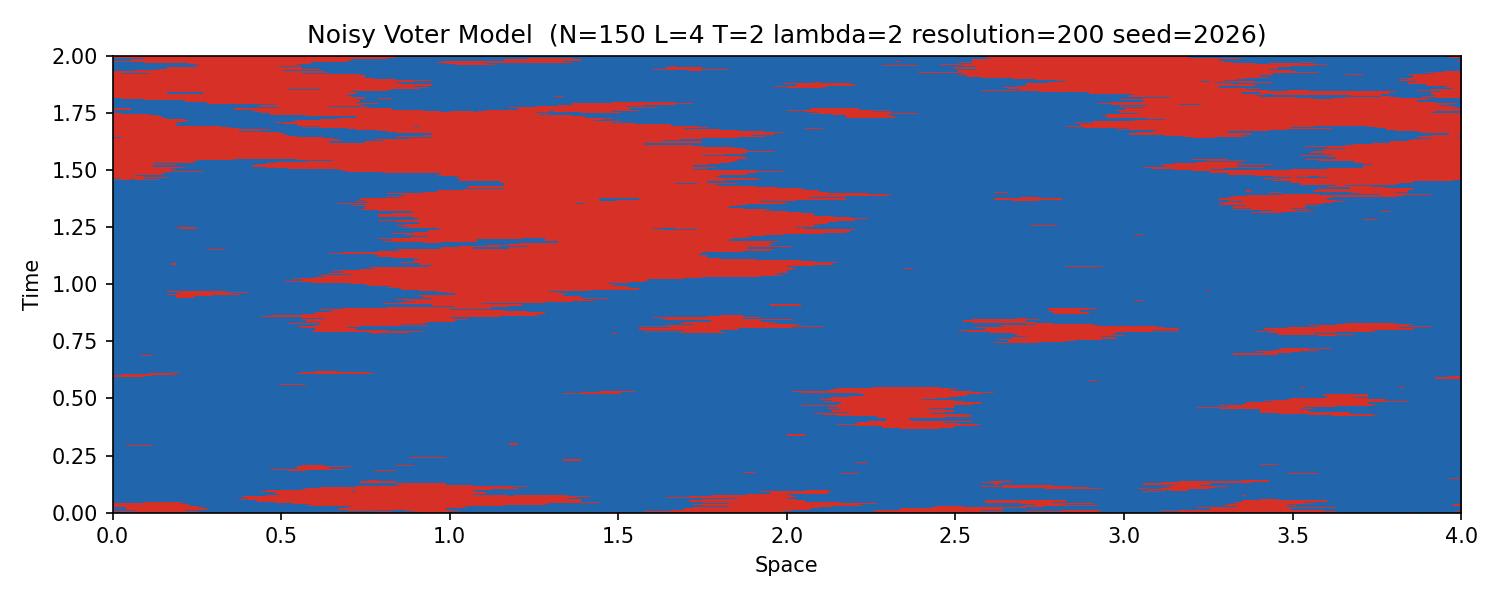
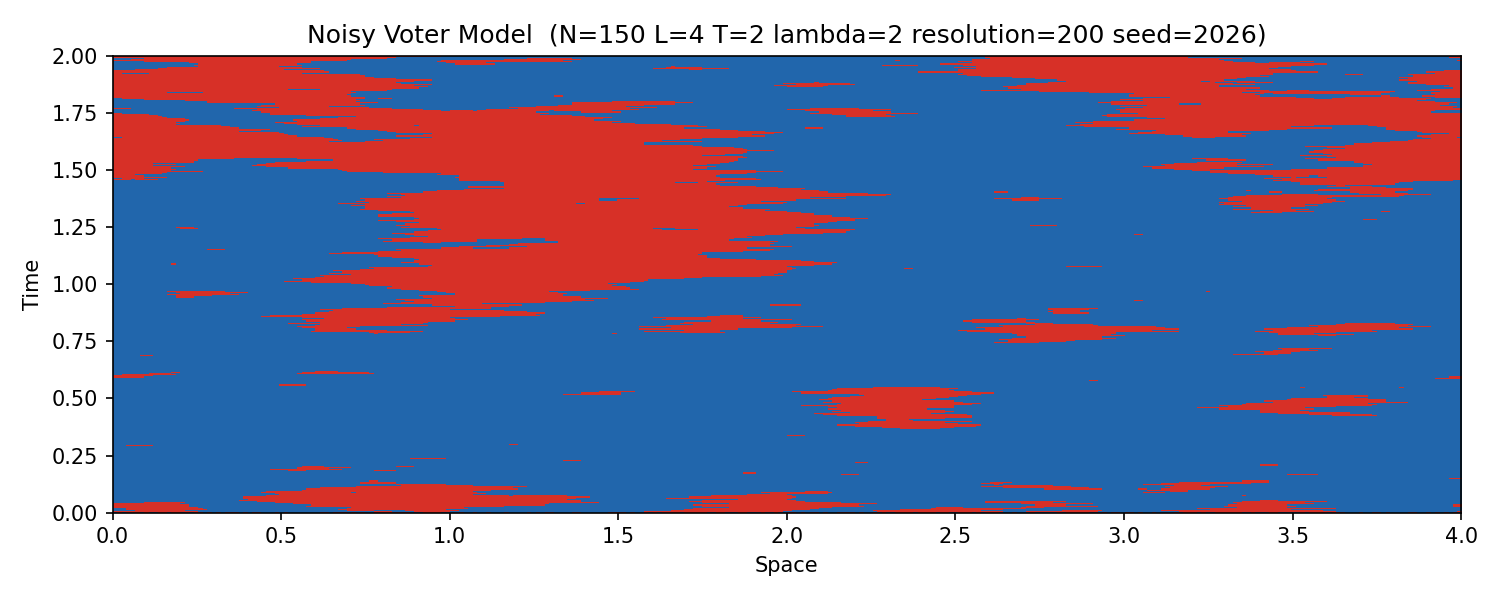
plot.py: a row is drawn at its time
The rows were stretched from the time 0 to the last time, so a row was drawn
up to half a row away from its time, and with only one row the picture was
empty. Now the row j is a band of height 1/RESOLUTION centred at the time
j/RESOLUTION.

Drawn the figure again. The run is the same: output.txt did not change.

Checked: on a file of 5 rows of one colour each the colour changes at 1/8,
3/8, 5/8 and 7/8 of the height. In the new figure the 105091 cells with the
neighbours of their colour have the colour of output.txt. With one row the
picture is a band, with no warning.

diff --git a/plot.py b/plot.py
@@ -18,14 +18,17 @@ with open("output.txt") as f:
 parameters = dict(item.split("=") for item in header.split())
 colours = np.loadtxt("output.txt", ndmin=2)
 
-# The first row is the time 0 and the last one the final time.
+# The row j is the time j/resolution: it is drawn as a band of height
+# 1/resolution, centred at its time.
 length = float(parameters["L"])
-last_time = (colours.shape[0] - 1) / float(parameters["resolution"])
+step = 1.0 / float(parameters["resolution"])
+last_time = (colours.shape[0] - 1) * step
 
 plt.figure(figsize=(10, 4))
 plt.imshow(colours, cmap=ListedColormap(["#2166ac", "#d73027"]), vmin=0, vmax=1,
            aspect="auto", interpolation="nearest", origin="lower",
-           extent=(0, length, 0, last_time))
+           extent=(0, length, -step / 2, last_time + step / 2))
+plt.ylim(0, max(last_time, step / 2))
 plt.xlabel("Space")
 plt.ylabel("Time")
 plt.title("Noisy Voter Model  (" + header + ")")
